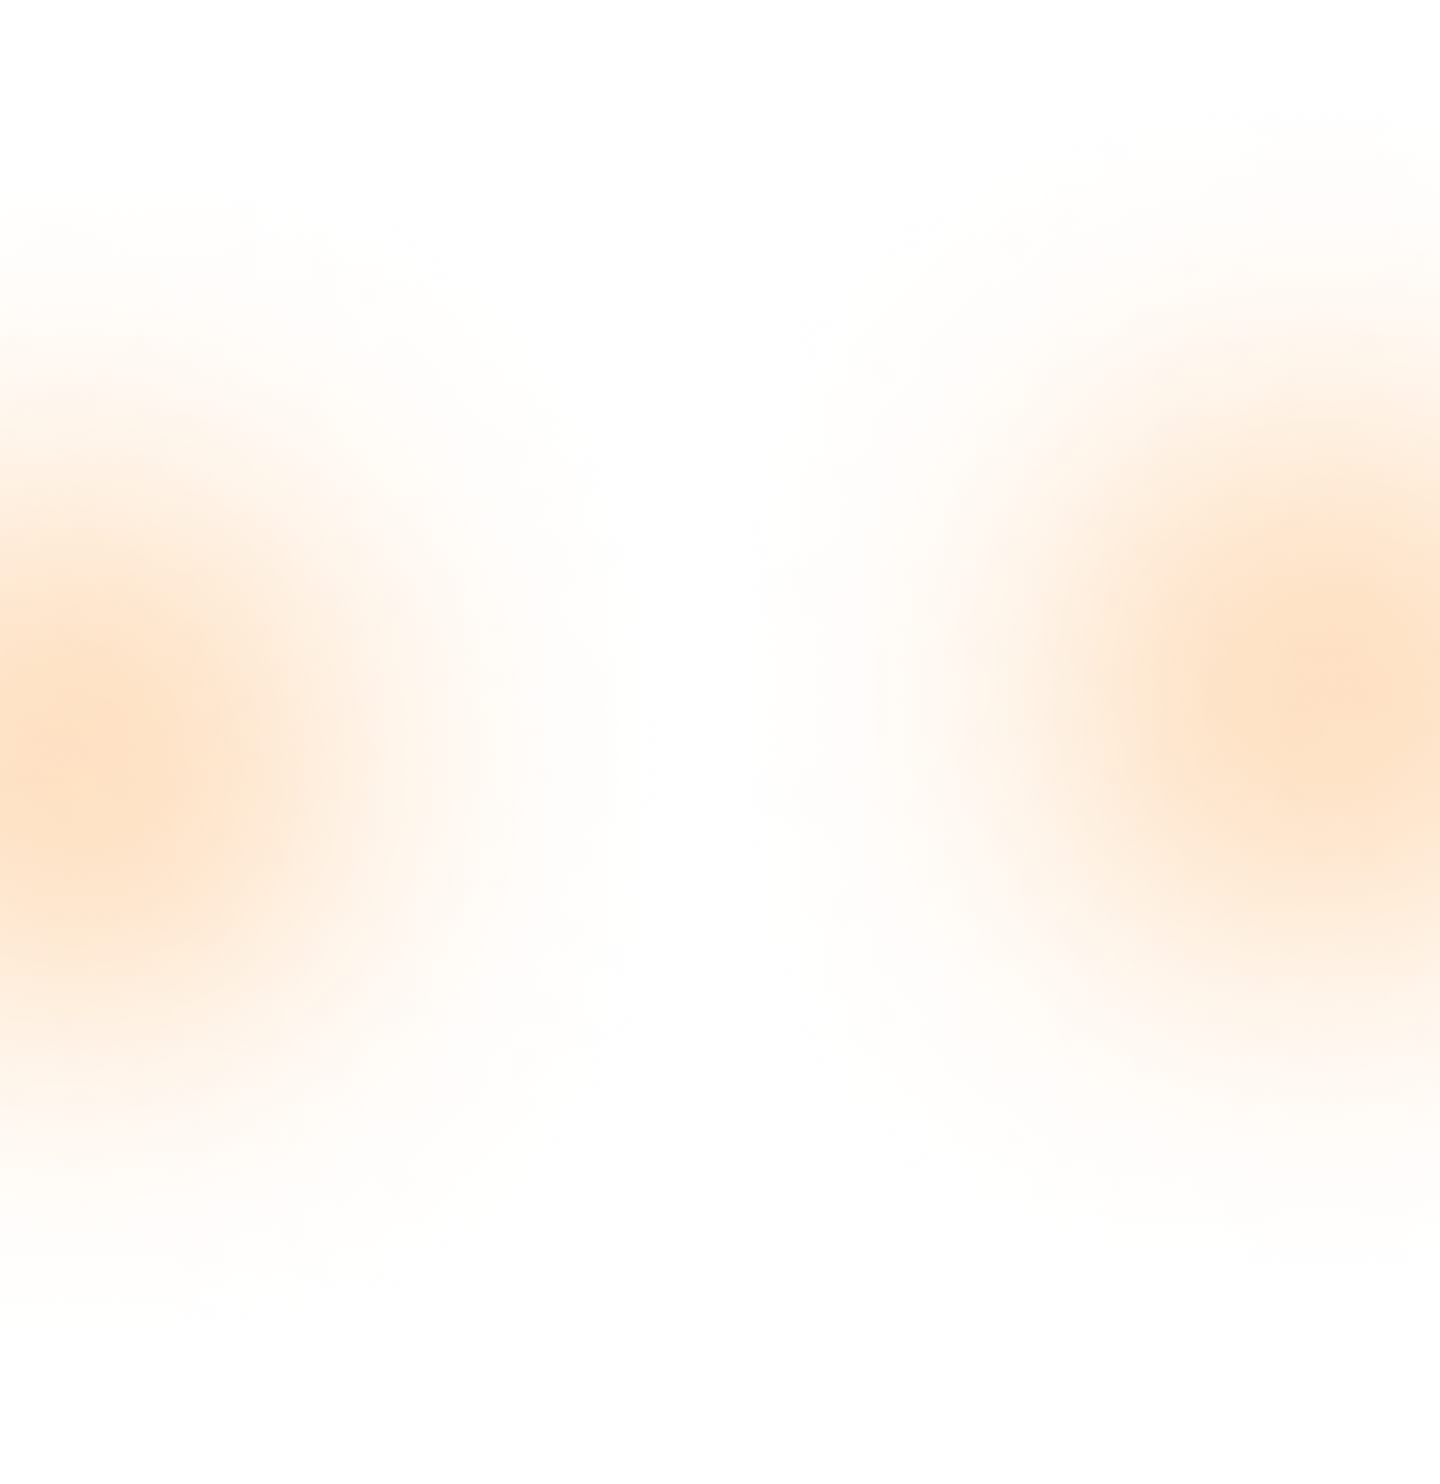
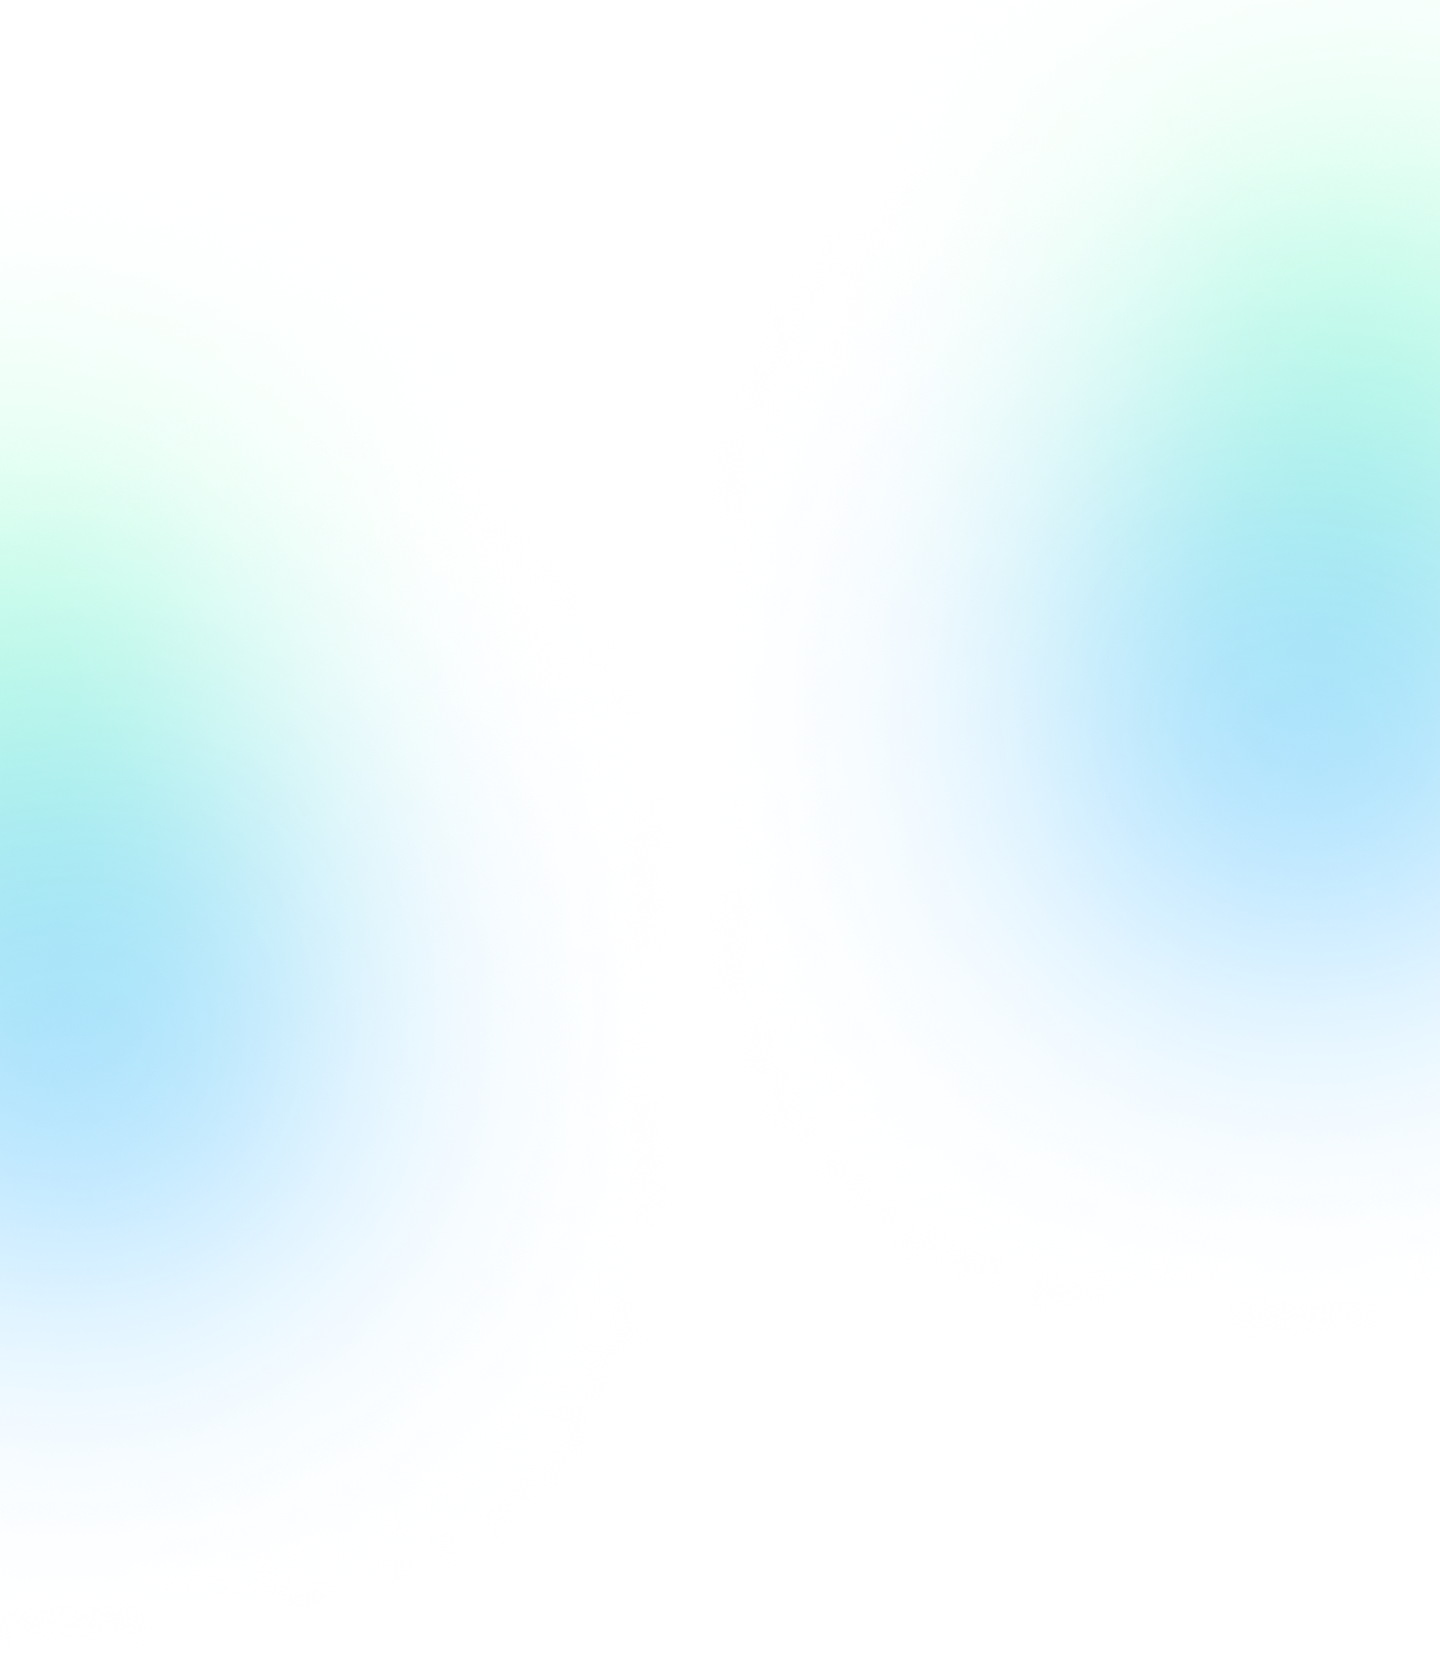
Menambah assets

Changed region(s): [[0.6562, 0.062, 1.0, 0.6819], [0.0, 0.248, 0.2812, 0.8059]]

diff --git a/styles/main.css b/styles/main.css
@@ -10,17 +10,17 @@
 }
 
 body {
-   background: #101010 url("../assets/images/bg-blur.png") no-repeat center top;
+   background: #F5F5F5 url("../assets/images/bg-blur.png") no-repeat center top;
    background-size: cover;
-   color: white;
+   color: #1d1d1d;
 }
 
 .nav-link {
-   color: rgb(255, 255, 255) !important;
+   color: #1d1d1d !important;
    transition: all 0.3s ease-in-out;
 }
 .nav-link.active {
-   color: rgb(255, 255, 255) !important;
+   color: #1d1d1d !important;
    font-weight: 700;
 }
 .nav-link:hover {
@@ -48,11 +48,11 @@ body {
 }
 
 .btn-beli-sekarang {
-   background-image: linear-gradient(to right, #ED7B00, #EF9610, #EF9610, #ED7B00);
+   background-image: linear-gradient(to right, #2D388A, #00AEEF, #00AEEF, #2D388A);
    background-position: left;
    background-size: 200%;
    border-radius: 32px;
-   box-shadow: 0 5px 30px 0px rgba(237, 122, 0, 0.3);
+   box-shadow: 0 5px 30px 0px rgba(45, 56, 138, 0.3);
    color: white;
    font-family: 'Nunito Sans', sans-serif;
    font-size: 22px;
@@ -77,7 +77,7 @@ body {
    right: 8%;
    width: 40%;
    height: 640px;
-   background: linear-gradient(167.7deg, rgba(255, 255, 255, 0.3) 0%, rgba(255, 255, 255, 0.02) 90.89%);
+   background: linear-gradient(167.7deg, rgba(255, 255, 255, 0.7) 0%, rgba(255, 255, 255, 0.4) 90.89%);
    -webkit-backdrop-filter: blur(40px);
            backdrop-filter: blur(40px);
    border-radius: 0 0 2000px 2000px;
@@ -323,7 +323,7 @@ body {
 }
 
 .my-label-orange {
-   background: #ED7B00;
+   background: linear-gradient(90deg, #2D388A 0%, #00AEEF 100%);
 }
 
 

diff --git a/styles/contact.css b/styles/contact.css
@@ -9,10 +9,10 @@
 .ellipse-b-l { top: 106%; left: 2%; z-index: -1;}
 .ellipse-b-r { top: 54%; right: 3%; z-index: -1;}
 .ellipse-b-t { top: 34%; left: 44%; z-index: -1;}
-.ellipse-s-l-o { top: 138%; left: 5%; z-index: 10; }
-.ellipse-s-l-w { top: 130%; left: 2%; z-index: 10; }
-.ellipse-s-r-w { top: 90%; right: 6%; z-index: 10; }
-.ellipse-s-t-w { top: 28%; left: 56%; z-index: 10; }
+.ellipse-s-l-g { top: 138%; left: 5%; z-index: 10; }
+.ellipse-s-l-b { top: 130%; left: 2%; z-index: 10; }
+.ellipse-s-r-b { top: 90%; right: 6%; z-index: 10; }
+.ellipse-s-t-b { top: 28%; left: 56%; z-index: 10; }
 
 .contact-card {
    background: linear-gradient(116.86deg, rgba(255, 255, 255, 0.4) 0%, rgba(255, 255, 255, 0.1) 100%);

diff --git a/index.php b/index.php
@@ -1,15 +1,16 @@
-<?php 
+<?php
 
-   require_once 'connection.php';
-   
-   // Akan mencari keseluruhan jumlah quantity pada cart
-   // Menghasilkan variabel '$cartQuantityAll'
-   require_once 'cart/cart-quantity.php'; 
+require_once 'connection.php';
+
+// Akan mencari keseluruhan jumlah quantity pada cart
+// Menghasilkan variabel '$cartQuantityAll'
+require_once 'cart/cart-quantity.php';
 
 ?>
 
 <!DOCTYPE html>
 <html lang="en">
+
 <head>
    <meta charset="UTF-8">
    <meta http-equiv="X-UA-Compatible" content="IE=edge">
@@ -23,12 +24,13 @@
    <link href="https://fonts.googleapis.com/css2?family=Maven+Pro:wght@500;700&family=Nunito+Sans:wght@400;600;700&display=swap" rel="stylesheet">
    <script src="https://kit.fontawesome.com/a81368914c.js"></script>
 </head>
+
 <body>
-   
+
    <nav class="navbar navbar-expand-lg navbar-dark">
       <div class="container py-4">
          <a class="navbar-brand" href="index.php">
-            <img src="assets/images/kopeey-logo-text-light.png" alt="" height="42">
+            <img src="assets/images/luxify-logo-text.png" alt="" height="42">
          </a>
          <button class="navbar-toggler" type="button" data-bs-toggle="collapse" data-bs-target="#navbarSupportedContent" aria-controls="navbarSupportedContent" aria-expanded="false" aria-label="Toggle navigation">
             <span class="navbar-toggler-icon"></span>
@@ -40,9 +42,9 @@
                      Products
                   </a>
                   <ul class="dropdown-menu" aria-labelledby="navbarProducts">
-                     <li><a href="index.php#category-arabica" class="btn-arabica dropdown-item" >Kopi Arabica</a></li>
-                     <li><a href="index.php#category-liberica" class="btn-liberica dropdown-item" >Kopi Liberica</a></li>
-                     <li><a href="index.php#category-robusta" class="btn-robusta dropdown-item" >Kopi Robusta</a></li>
+                     <li><a href="index.php#category-arabica" class="btn-arabica dropdown-item">Kopi Arabica</a></li>
+                     <li><a href="index.php#category-liberica" class="btn-liberica dropdown-item">Kopi Liberica</a></li>
+                     <li><a href="index.php#category-robusta" class="btn-robusta dropdown-item">Kopi Robusta</a></li>
                   </ul>
                </li>
                <li class="nav-item dropdown">
@@ -58,7 +60,9 @@
                   <a class="nav-link" aria-current="page" href="cart">
                      <i class="fas fa-shopping-cart"></i>
                      <span class="translate-middle badge my-label my-label-orange">
-                        <?php if($cartQuantityAll > 99){ $cartQuantityAll = '99+'; } ?>
+                        <?php if ($cartQuantityAll > 99) {
+                           $cartQuantityAll = '99+';
+                        } ?>
                         <?= $cartQuantityAll; ?>
                         <span class="visually-hidden">unread messages</span>
                      </span>
@@ -209,11 +213,12 @@
          </div>
       </div>
    </section>
-   
+
    <script type="text/javascript" src="libraries/jquery-3.6.0.min.js"></script>
    <script type="text/javascript" src="libraries/vanilla-tilt.js"></script>
    <script type="text/javascript" src="scripts/tilt-effect.js"></script>
    <script src="libraries/bootstrap-5.1.3-dist/js/bootstrap.bundle.js"></script>
    <script src="scripts/ajax-categories.js"></script>
 </body>
+
 </html>

diff --git a/contact.php b/contact.php
@@ -22,10 +22,10 @@
       <img src="assets/images/ellipse-b-l.png" class="ellipse-element ellipse-b-l">
       <img src="assets/images/ellipse-b-r.png" class="ellipse-element ellipse-b-r">
       <img src="assets/images/ellipse-b-t.png" class="ellipse-element ellipse-b-t">
-      <img src="assets/images/ellipse-s-l-o.png" class="ellipse-element ellipse-s-l-o">
-      <img src="assets/images/ellipse-s-l-w.png" class="ellipse-element ellipse-s-l-w">
-      <img src="assets/images/ellipse-s-r-w.png" class="ellipse-element ellipse-s-r-w">
-      <img src="assets/images/ellipse-s-t-w.png" class="ellipse-element ellipse-s-t-w">
+      <img src="assets/images/ellipse-s-l-g.png" class="ellipse-element ellipse-s-l-g">
+      <img src="assets/images/ellipse-s-l-b.png" class="ellipse-element ellipse-s-l-b">
+      <img src="assets/images/ellipse-s-r-b.png" class="ellipse-element ellipse-s-r-b">
+      <img src="assets/images/ellipse-s-t-b.png" class="ellipse-element ellipse-s-t-b">
    </div>
 
    <nav class="navbar navbar-expand-lg navbar-dark">
